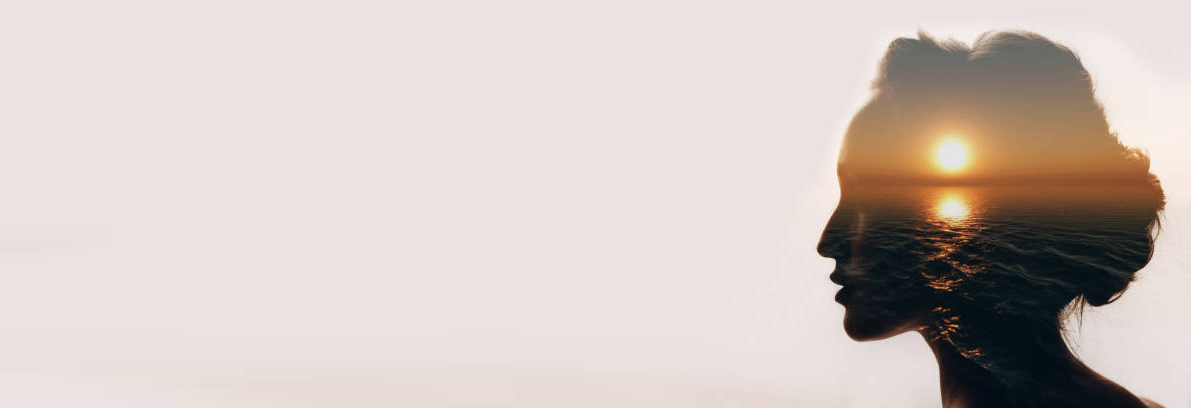
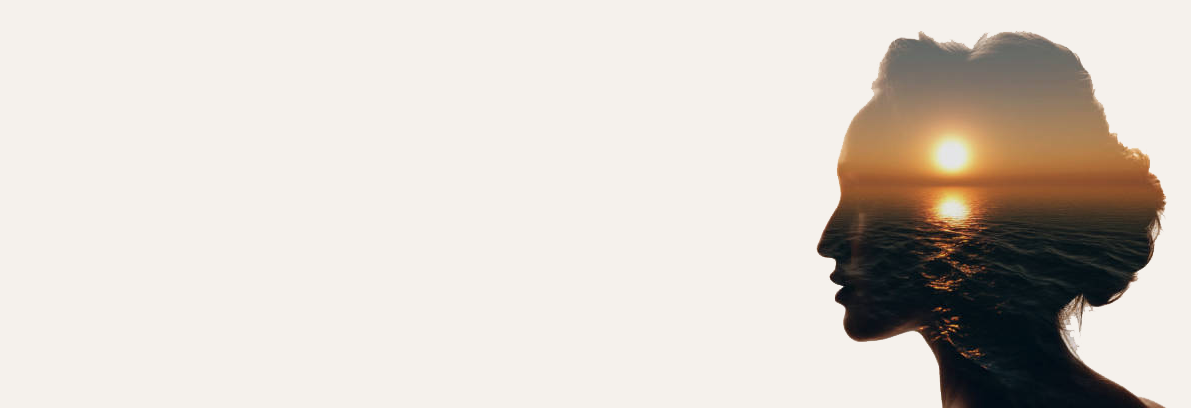
background-image

diff --git a/src/app/components/advantages-section/advantages-section.component.html b/src/app/components/advantages-section/advantages-section.component.html
@@ -26,7 +26,14 @@
     <br>
     bla bla bla
     <br>
-    
+    bla bla bla
+    <br>
+    bla bla bla
+    <br>
+    bla bla bla
+    <br>
+    bla bla bla
+    <br>
     <!-- <div class="advantages-grid">
       <div class="flip-card" 
            *ngFor="let advantage of advantages; let i = index"

diff --git a/src/app/components/advantages-section/advantages-section.component.css b/src/app/components/advantages-section/advantages-section.component.css
@@ -1,6 +1,6 @@
 .advantages-section {
   padding: 5rem 0;
-  background: url('/assets/advantages-background.png') center center / cover no-repeat;
+  background: url('/assets/woman-head-long-1.png') center center / cover no-repeat;
   color: var(--text-dark);
   position: relative;
 }
